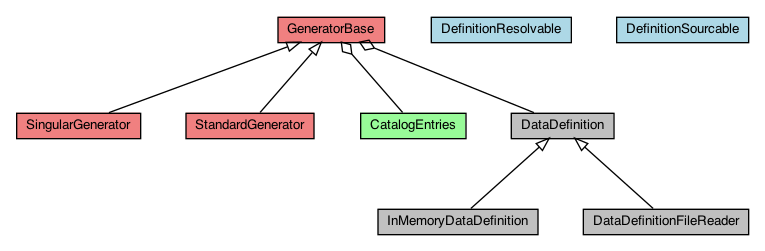
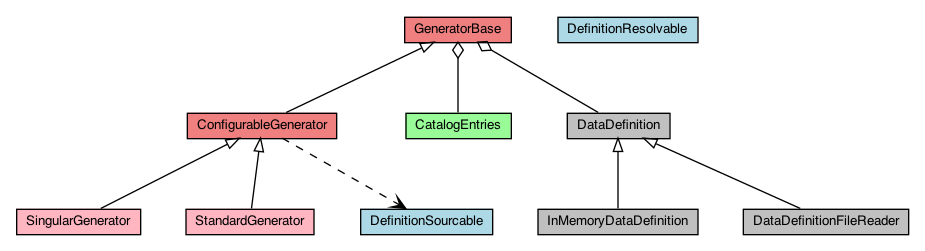
Introduce the ConfigurableGenerator
- Shared implementation for the SingularGenerator and StandardGenerator

diff --git a/lib/tdc/generators/configurable_generator.rb b/lib/tdc/generators/configurable_generator.rb
@@ -5,23 +5,12 @@ module Tdc
     #
     # Shared implementation between the StandardGenerator and the SingularGenerator abstract classes.
     #
-    module InstanceDefinitionConfigurable
-      extend ActiveSupport::Concern
+    class ConfigurableGenerator < Tdc::Generators::GeneratorBase
+      include Tdc::Generators::DefinitionSourcable
 
-      included do
-        include Tdc::Generators::DefinitionSourcable
+      attr_reader :instance_definition
 
-        attr_reader :instance_definition
-
-        source_definition_from :instance_definition
-      end
-
-      private
-
-      def configure_instance_definition(instance_definition)
-        @instance_definition = instance_definition
-        configure_definition_source(instance_definition)
-      end
+      source_definition_from :instance_definition
 
       def run_resolvers_and_generate_instance
         run_atx_resolvers(instance_definition)
@@ -42,6 +31,14 @@ module Tdc
       #
       def run_tag_resolvers(_instance_definition)
         # Do nothing
+      end
+
+      private
+
+      def configure_instance_definition(instance_definition)
+        @instance_definition = instance_definition
+
+        configure_definition_source(instance_definition)
       end
 
       def run_atx_resolvers(instance_definition)

diff --git a/lib/tdc.rb b/lib/tdc.rb
@@ -5,20 +5,31 @@ require "active_support"
 require "active_support/concern"
 require "active_support/core_ext"
 
+require "tdc/version"
+
+# Errors
+require "tdc/fatal_error"
+require "tdc/missing_override_error"
+
+# Data Definition Hierarchy
 require "tdc/data_definition"
 require "tdc/data_definition_file_reader"
-require "tdc/fatal_error"
 require "tdc/in_memory_data_definition"
-require "tdc/missing_override_error"
-require "tdc/version"
 require "tdc/with_indifferent_access_decorator"
 
+# Generators
 require "tdc/generators"
+
+# Current Catalog
 require "tdc/generators/catalog_entries"
+
+# Concerns
 require "tdc/generators/definition_resolvable"
 require "tdc/generators/definition_sourcable"
+
+# Generator Hierarchy
 require "tdc/generators/generator_base"
-require "tdc/generators/instance_definition_configurable"
+require "tdc/generators/configurable_generator"
 require "tdc/generators/singular_generator"
 require "tdc/generators/standard_generator"
 

diff --git a/lib/tdc/generators/standard_generator.rb b/lib/tdc/generators/standard_generator.rb
@@ -5,9 +5,7 @@ module Tdc
     #
     # See also SingularGenerator.
     #
-    class StandardGenerator < Tdc::Generators::GeneratorBase
-      include Tdc::Generators::InstanceDefinitionConfigurable
-
+    class StandardGenerator < Tdc::Generators::ConfigurableGenerator
       def generate
         CatalogEntries.new.tap do |catalog_entries|
           instance_definitions.each do |instance_definition|

diff --git a/lib/tdc/generators/singular_generator.rb b/lib/tdc/generators/singular_generator.rb
@@ -5,9 +5,7 @@ module Tdc
     #
     # See also StandardGenerator.
     #
-    class SingularGenerator < Tdc::Generators::GeneratorBase
-      include Tdc::Generators::InstanceDefinitionConfigurable
-
+    class SingularGenerator < Tdc::Generators::ConfigurableGenerator
       def initialize(data_definition, current_catalog)
         super
 

diff --git a/spec/support/tdc_fixture.rb b/spec/support/tdc_fixture.rb
@@ -3,8 +3,6 @@ module Support
   # A globally shared test fixture. See the tdc_spec_helper.
   #
   module TdcFixture
-
-
     class SampleSingularGenerator < Tdc::Generators::SingularGenerator
       attr_reader :instance_definitions
 

diff --git a/spec/tdc/tdc_spec.rb b/spec/tdc/tdc_spec.rb
@@ -1,5 +1,5 @@
 RSpec.describe Tdc do
   it "has the expected version number" do
-    expect(Tdc::VERSION).to eq("0.2.2")
+    expect(Tdc::VERSION).to eq("0.2.3")
   end
 end

diff --git a/lib/tdc/version.rb b/lib/tdc/version.rb
@@ -1,3 +1,3 @@
 module Tdc
-  VERSION = "0.2.2"
+  VERSION = "0.2.3"
 end

diff --git a/CHANGELOG.md b/CHANGELOG.md
@@ -6,6 +6,10 @@ and this project adheres to [Semantic Versioning](https://semver.org/spec/v2.0.0
 
 ## [Unreleased]
 
+## [0.2.3] - 2020-05-21
+
+- Update the diagram in the README
+
 ## [0.2.2] - 2020-05-20
 
 - Adding specs
